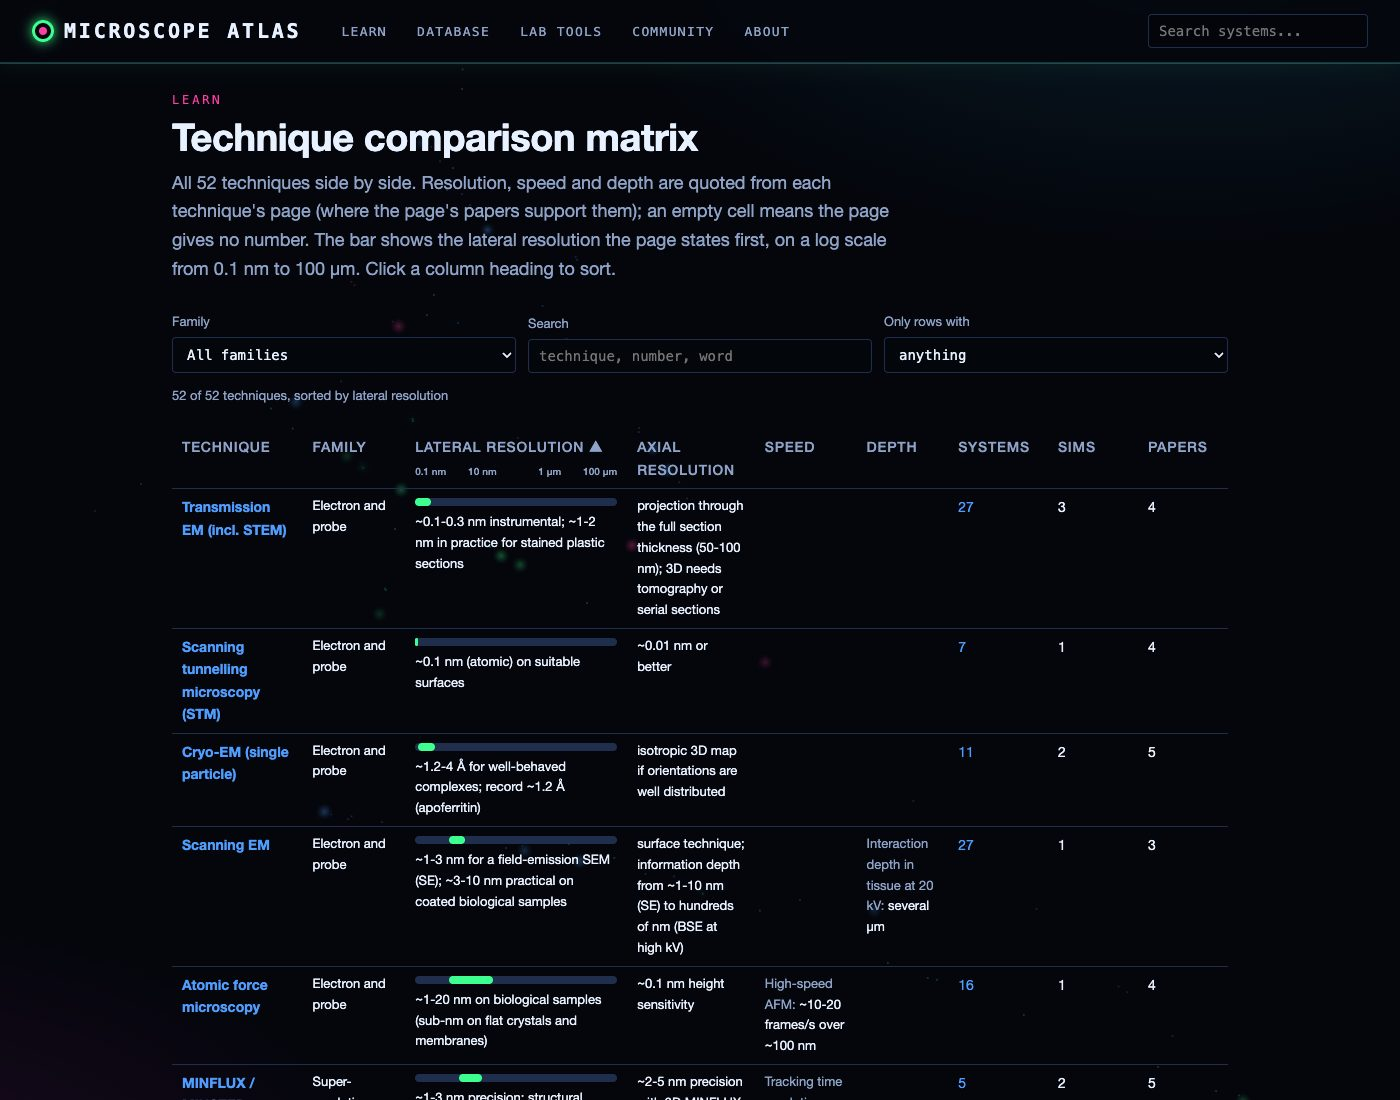
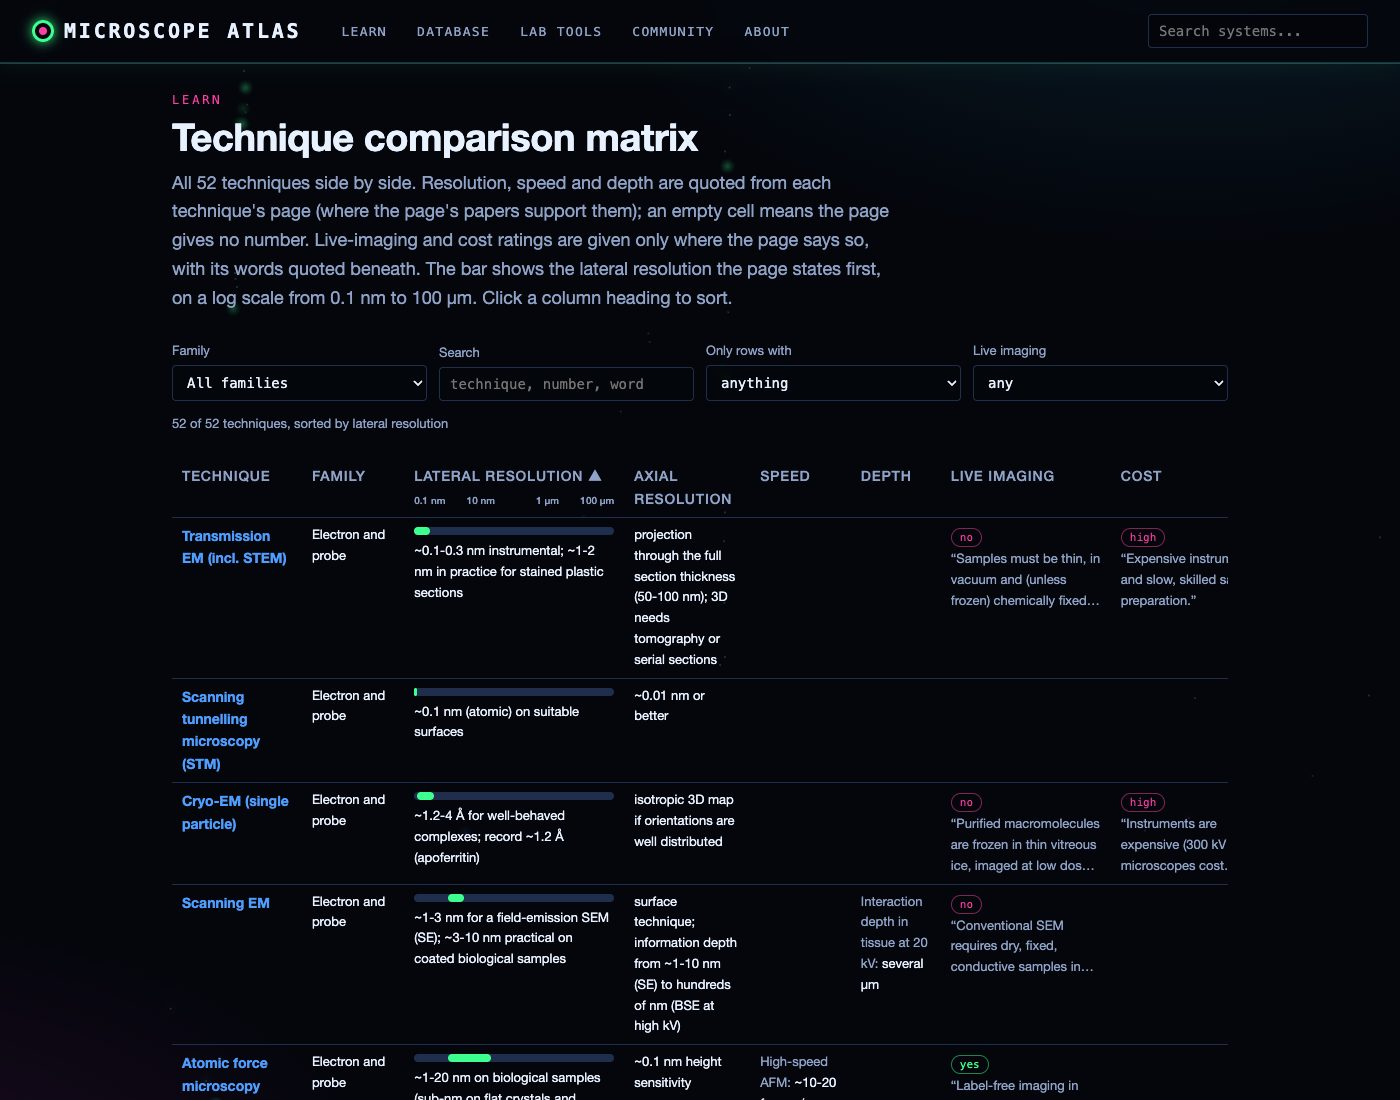
R8 complete: live-imaging and cost ratings in the technique matrix, each quoting the technique page it rests on

diff --git a/atlas/web/static/matrix.js b/atlas/web/static/matrix.js
@@ -1,8 +1,9 @@
 // Technique comparison matrix (#/matrix): every technique side by side, with resolution, speed and depth exactly as
 // its teaching page states them (GET /api/techniques/matrix), a log-scale bar of the first stated lateral
-// resolution, and database counts. Columns sort; rows filter by family and text.
+// resolution, live-cell and cost ratings each shown with the page statement they rest on, and database counts.
+// Columns sort; rows filter by family, text, live-cell rating and what the row states.
 import { route, api, app, esc, list } from './core.js';
-import { firstLength, lateralLength, logPos, fmtLength, byKey } from './matrix_calc.js';
+import { firstLength, lateralLength, logPos, fmtLength, byKey, LIVE_RANK, COST_RANK, rank } from './matrix_calc.js';
 
 const TICKS = [0.1, 10, 1e3, 1e5];
 const COLS = [
@@ -12,11 +13,15 @@ const COLS = [
   ['z', 'Axial resolution', r => r.zLen?.lo ?? null],
   ['speed', 'Speed', r => r.speed[0]?.value || null],
   ['depth', 'Depth', r => r.depthLen?.lo ?? null],
+  ['live', 'Live imaging', r => rank(LIVE_RANK, r.live)],
+  ['cost', 'Cost', r => rank(COST_RANK, r.cost)],
   ['systems', 'Systems', r => r.systems],
   ['sims', 'Sims', r => r.sims],
   ['papers', 'Papers', r => r.papers],
 ];
 
+const TAG = { yes: 'g', limited: 'y', no: 'r', low: 'g', 'adds cost': 'y', high: 'r' };
+const rated = (v, q) => v ? `<span class="tag ${TAG[v]}">${esc(v)}</span><div class="small mute mx-q" title="${esc(q)}">“${esc(q)}”</div>` : '';
 const kn = ks => list(ks, k => `<div><span class="mute">${esc(k.label)}:</span> ${esc(k.value)}</div>`);
 
 function bar(len) {
@@ -33,12 +38,14 @@ route('matrix', async (_a, query = {}) => {
   const fams = [...new Set(rows.map(r => r.family))];
   app().innerHTML = `<p class="kicker">Learn</p><h1>Technique comparison matrix</h1>
     <p class="lead">All ${rows.length} techniques side by side. Resolution, speed and depth are quoted from each technique's page
-    (where the page's papers support them); an empty cell means the page gives no number. The bar shows the lateral
+    (where the page's papers support them); an empty cell means the page gives no number. Live-imaging and cost ratings are given only where the page says so, with
+    its words quoted beneath. The bar shows the lateral
     resolution the page states first, on a log scale from 0.1 nm to 100 µm. Click a column heading to sort.</p>
     <div class="row"><div><label for="mx-f">Family</label><select id="mx-f"><option value="">All families</option>
       ${list(fams, f => `<option ${query.family === f ? 'selected' : ''}>${esc(f)}</option>`)}</select></div>
     <div><label for="mx-q">Search</label><input id="mx-q" type="search" placeholder="technique, number, word"></div>
-    <div><label for="mx-n">Only rows with</label><select id="mx-n"><option value="">anything</option><option value="speed">a speed</option><option value="depth">a depth</option></select></div></div>
+    <div><label for="mx-n">Only rows with</label><select id="mx-n"><option value="">anything</option><option value="speed">a speed</option><option value="depth">a depth</option><option value="cost">a cost rating</option></select></div>
+    <div><label for="mx-l">Live imaging</label><select id="mx-l"><option value="">any</option>${list(Object.keys(LIVE_RANK), v => `<option>${v}</option>`)}</select></div></div>
     <p id="mx-count" class="small mute" aria-live="polite"></p>
     <div class="scroll"><table class="mx" id="mx-t"></table></div>
     <p class="small mute">Speeds and depths are the page's own key numbers (frame, volume or scan rates; imaging or penetration depth).
@@ -46,8 +53,8 @@ route('matrix', async (_a, query = {}) => {
   let sortKey = 'xy', dir = 1;
   const $ = s => app().querySelector(s);
   const draw = () => {
-    const f = $('#mx-f').value, q = $('#mx-q').value.toLowerCase(), need = $('#mx-n').value;
-    const shown = rows.filter(r => (!f || r.family === f) && (!need || r[need].length) && (!q || JSON.stringify(r).toLowerCase().includes(q)));
+    const f = $('#mx-f').value, q = $('#mx-q').value.toLowerCase(), need = $('#mx-n').value, live = $('#mx-l').value;
+    const shown = rows.filter(r => (!f || r.family === f) && (!need || r[need].length) && (!live || r.live === live) && (!q || JSON.stringify(r).toLowerCase().includes(q)));
     const col = COLS.find(c => c[0] === sortKey);
     shown.sort(byKey(col[2], dir));
     $('#mx-count').textContent = `${shown.length} of ${rows.length} techniques, sorted by ${col[1].toLowerCase()}${dir < 0 ? ' (descending)' : ''}`;
@@ -61,6 +68,8 @@ route('matrix', async (_a, query = {}) => {
         <td class="small">${esc(r.z)}</td>
         <td class="small">${kn(r.speed)}</td>
         <td class="small">${kn(r.depth)}</td>
+        <td class="mx-rate">${rated(r.live, r.live_quote)}</td>
+        <td class="mx-rate">${rated(r.cost, r.cost_quote)}</td>
         <td>${r.systems ? `<a href="#/systems?technique=${esc(r.id)}">${r.systems}</a>` : '0'}</td>
         <td>${r.sims}</td><td>${r.papers}</td></tr>`) + '</tbody>';
   };
@@ -71,7 +80,7 @@ route('matrix', async (_a, query = {}) => {
     sortKey = k; draw();
     $(`.mx-sort[data-k="${k}"]`)?.focus();
   });
-  for (const id of ['#mx-f', '#mx-n']) $(id).onchange = draw;
+  for (const id of ['#mx-f', '#mx-n', '#mx-l']) $(id).onchange = draw;
   $('#mx-q').oninput = draw;
   draw();
 });

diff --git a/atlas/web/static/style_pages.css b/atlas/web/static/style_pages.css
@@ -108,7 +108,7 @@ details.fold { background:var(--panel); border:1px solid var(--line); border-rad
 .gallery video { width:100%; display:block; background:#000; } .gallery.compact video { height:180px; object-fit:cover; }
 
 /* technique comparison matrix */
-table.mx td { min-width:90px; } table.mx td.mx-xy { min-width:220px; }
+table.mx td { min-width:90px; } table.mx td.mx-xy { min-width:220px; } table.mx td.mx-rate { min-width:170px; }
 .mx-sort { background:none; border:0; color:inherit; font:inherit; cursor:pointer; padding:0; text-align:left; }
 .mx-sort:hover, .mx-sort:focus-visible { color:var(--ink); text-decoration:underline; }
 .mx-bar { position:relative; height:8px; background:var(--line); border-radius:4px; margin:2px 0 6px; }
@@ -116,3 +116,4 @@ table.mx td { min-width:90px; } table.mx td.mx-xy { min-width:220px; }
 .mx-scale { position:relative; height:14px; margin-top:4px; font-size:10px; color:var(--mute); }
 .mx-scale span { position:absolute; transform:translateX(-50%); white-space:nowrap; }
 .mx-scale span:first-child { transform:none; } .mx-scale span:last-child { transform:translateX(-100%); }
+.mx-q { display:-webkit-box; -webkit-line-clamp:3; -webkit-box-orient:vertical; overflow:hidden; }

diff --git a/atlas/web/static/matrix_calc.js b/atlas/web/static/matrix_calc.js
@@ -49,3 +49,8 @@ export function byKey(key, dir = 1) {
     return dir * (typeof x === 'number' ? x - y : String(x).localeCompare(String(y)));
   };
 }
+
+/** Sort ranks for the curated ratings (data/content/technique_matrix.json); unrated rows sort last via byKey. */
+export const LIVE_RANK = { yes: 0, limited: 1, no: 2 };
+export const COST_RANK = { low: 0, 'adds cost': 1, high: 2 };
+export const rank = (table, v) => (v in table ? table[v] : null);

diff --git a/atlas/content.py b/atlas/content.py
@@ -82,11 +82,24 @@ _SPEED_NOT = r"speed of sound|disk speed"
 _DEPTH = r"imaging depth|penetration|depth in|usable depth|useful imaging depth|interaction depth|resolution / depth"
 
 
+def page_statement(page: dict, ref: str) -> str:
+    """Text of a technique-page field by reference: 'tagline', '<list field>.<index>', optionally '@<n>' for the n-th
+    sentence of that text (e.g. 'sample_prep@2'). Raises if the reference does not resolve."""
+    import re
+    ref, _, sent = ref.partition("@")
+    field, _, i = ref.partition(".")
+    v = page[field]
+    v = v[int(i)] if i else v
+    return re.split(r"(?<=[.!?])\s+(?=[A-Z(])", v)[int(sent)] if sent else v
+
+
 def matrix() -> list[dict]:
     """One row per technique for the comparison matrix: resolution text and the speed and depth key numbers exactly as
-    the technique page states them (each page is sourced by its papers), plus database counts."""
+    the technique page states them (each page is sourced by its papers), database counts, and the live-cell and cost
+    ratings of data/content/technique_matrix.json, each shown with the page statement it rests on (quoted verbatim)."""
     import re
     pages, counts = technique_pages(), catalog.facets()["technique"]
+    ratings = {r["id"]: r for r in named("technique_matrix")}
     sims = simulations()
     rows = []
     for t in catalog.techniques():
@@ -99,4 +112,8 @@ def matrix() -> list[dict]:
                      "speed": pick(_SPEED, _SPEED_NOT), "depth": pick(_DEPTH),
                      "systems": counts.get(t["id"], 0), "papers": len(p.get("papers", [])),
                      "sims": sum(t["id"] in s.get("techniques", []) for s in sims)})
+        r = ratings.get(t["id"], {})
+        for k in ("live", "cost"):
+            rows[-1][k] = r.get(k, "")
+            rows[-1][k + "_quote"] = page_statement(p, r[k + "_ref"]) if k in r else ""
     return rows

diff --git a/INTERFACE.md b/INTERFACE.md
@@ -30,7 +30,7 @@ JSON by `static_api.js`; Python-only tools show a notice.
 | `techniques.js` | Technique index by family and the teaching page |
 | `lightpath.js`, `lightpath_kit.js`, `lightpath_defs.js`, `lightpath_defs2.js`, `lightpath_steps.js` | SVG light-path engine (`P` primitives, `lightPath`, `miniPath`, `hasDiagram`); shared layouts (`epi`, `transmitted`, `scanner`, `psfInset`, axis `X`/`Y`); per-technique diagrams (`DEFS`, `FAMILY_DEFAULT`; part 2 `DEFS2` merged in): one for each of the 52 techniques; step-through (`partsOf`, `matchSteps`, `stepper`) links `light_path` steps to highlighted parts |
 | `cells.js`, `cells_identify.js`, `cell_diagrams.js`, `cell_diagrams2.js` | Cells page (`#/cells/<tab>`): diagrams (`DIAGRAMS`, parts `data-s` = structure ids), structures, cell types, image database (Commons images with `cell_type`), identifier tab (`POST /api/cells/identify`) |
-| `matrix.js`, `matrix_calc.js` | Technique comparison matrix (`#/matrix`, `GET /api/techniques/matrix` = `content.matrix()`): sortable table of resolution, speed, depth (quoted from technique pages), counts; pure helpers `firstLength`, `lateralLength`, `logPos`, `fmtLength`, `byKey` |
+| `matrix.js`, `matrix_calc.js` | Technique comparison matrix (`#/matrix`, `GET /api/techniques/matrix` = `content.matrix()`): sortable table of resolution, speed, depth (quoted from technique pages), counts; pure helpers `firstLength`, `lateralLength`, `logPos`, `fmtLength`, `byKey`, `LIVE_RANK`/`COST_RANK`; live-imaging and cost ratings from `data/content/technique_matrix.json`, quoted from the page by `content.page_statement` |
 | `nobel.js` | Nobel Prizes and microscopy (`#/nobel`, Community): data/content/nobel.json |
 | `fluor.js` | Fluorophore table with Stokes plot; spectra viewer with lasers, bands and crosstalk tables |
 | `sims.js` | Simulation index and `#/sim/<id>` router; merges the sim modules below |
@@ -73,6 +73,7 @@ JSON by `static_api.js`; Python-only tools show a notice.
 - `content/videos.json`: from `scripts/content/videos_src.py` (YouTube tutorials checked via oEmbed).
 - `content/cells.json`: Cells page content (intro, structures, cell types, numbers; sourced per entry).
 - `content/portfolio.json` key `calcium` comes from `scripts/content/calcium_src.py` (sourced background + how the group's work fits).
+- `content/technique_matrix.json`: per technique, live-imaging and cost ratings with a reference to the technique-page statement each rests on (`field.index`, `@n` = sentence).
 - `content/nobel.json`: Nobel prizes linked to microscopy (official citation, relation, note, techniques, sources).
 - `content/community.json`: from `scripts/content/community_src.py` (links checked by `scripts/check_links.py`).
 - `images/`: freely licensed Wikimedia Commons images + manifest.json (author, licence, source) from `scripts/fetch_commons.py` and the curated list `scripts/content/images_src.py`.
@@ -82,6 +83,6 @@ JSON by `static_api.js`; Python-only tools show a notice.
 `validate_data.py` (schema check, used by tests) · `build_static.py` (static export) · `build_papers.py` · `check_links.py [--systems]` (reports in docs/) · `fetch_commons.py` (images) · `fetch_fpbase.py` (fluorophores and spectra) · `content/build_content.py` (fundamentals, glossary, portfolio) · `content/cell_images_src.py`, `cell_images_src2.py` (Commons cell micrographs; batch 2 stored smaller), `content/calcium_images_src.py` (calcium movies, topic "calcium": Commons files, and CC BY open-access paper files given by `file_url` + licence + DOI; videos converted by `commons_video.py` to MP4 + poster), merged into the fetch by `fetch_commons.py`) · `eval_cell_id.py` (identifier leave-one-out accuracy → docs/cell_id_eval.md) · `backup_to_drive.sh <dest>` (project incl. git-ignored local data, git bundle, user cache → external drive) · `screenshots.py` (Playwright + Chrome: README figures in `docs/img` and a smoke test of every route; needs the server running).
 
 ## tests/
-`test_data.py` (validator, counts, every sim id has code) · `test_api.py` (routes) · `test_lab_files.py` (inspector endpoint) · `test_images.py` (licences, credits, ids, size) · `test_methods_videos.py` (methods coverage, video rows) · `table_engine.test.mjs` (ray-tracer physics and every preset) · `table_imaging.test.mjs` (PSF width, photon conservation, noise statistics, TIRF weighting, binning, modes per preset) · `cells.test.mjs` (diagrams render, part ids, sourced content) · `test_cells.py` (content API, identifier end to end when ML is installed) · `test_imagelab.py` (TIFF reader, image ops and spot fits vs tifffile/numpy/scipy, via `imagelab_check.mjs`) · `sim_engine_photon.test.mjs` (cross-section, flux, saturation, collection, band fraction) · `builder.test.mjs` (spec parsing on the real database, report vs hand calculation) · `sim_engine_loc.test.mjs` (exact noise-free fits, precision vs Thompson, matching) · `sim_engine_image.test.mjs` (PSF σ, binning, Poisson and read noise, spectra, PackBits) · `matrix.test.mjs` (length parsing on every technique page, log axis, sorting) · `lightpath.test.mjs` (every technique has a diagram that renders; step matching and coverage) · `test_js.py` runs every `tests/*.test.mjs` with node (sim engine incl. `sim_engine2/3.test.mjs` for Simulations II, lab setup, labelling, bench).
+`test_data.py` (validator, counts, every sim id has code) · `test_api.py` (routes) · `test_lab_files.py` (inspector endpoint) · `test_images.py` (licences, credits, ids, size) · `test_methods_videos.py` (methods coverage, video rows) · `table_engine.test.mjs` (ray-tracer physics and every preset) · `table_imaging.test.mjs` (PSF width, photon conservation, noise statistics, TIRF weighting, binning, modes per preset) · `cells.test.mjs` (diagrams render, part ids, sourced content) · `test_cells.py` (content API, identifier end to end when ML is installed) · `test_imagelab.py` (TIFF reader, image ops and spot fits vs tifffile/numpy/scipy, via `imagelab_check.mjs`) · `sim_engine_photon.test.mjs` (cross-section, flux, saturation, collection, band fraction) · `builder.test.mjs` (spec parsing on the real database, report vs hand calculation) · `sim_engine_loc.test.mjs` (exact noise-free fits, precision vs Thompson, matching) · `sim_engine_image.test.mjs` (PSF σ, binning, Poisson and read noise, spectra, PackBits) · `matrix.test.mjs` (length parsing on every technique page, log axis, sorting, rating references resolve and support the rating) · `lightpath.test.mjs` (every technique has a diagram that renders; step matching and coverage) · `test_js.py` runs every `tests/*.test.mjs` with node (sim engine incl. `sim_engine2/3.test.mjs` for Simulations II, lab setup, labelling, bench).
 
 Flow: `web/app.py` → `catalog` / `content` / `fluorophores` → `jsonio` → `data/`. Front end: `main.js` → page modules → `core.api` → `/api/...`.

diff --git a/ROADMAP.md b/ROADMAP.md
@@ -17,7 +17,7 @@ Rules: sourced data only (see CLAUDE.md); new physics goes in `sim_engine.js` wi
 | R5 | Microscope builder: pick objective, camera, lasers and filters from the database; compute resolution, sampling, field of view, expected photons and SNR | Configurator page with tests of the calculations | completed | 2026-11-10 round 13: `#/builder` (`builder.js`, `builder_calc.js`): objective and camera from the database (specs parsed from their text: 23 objectives, 18 cameras usable; missing QE/read noise asked from the user), fluorophore with FPbase spectrum and ε/QY/τ, laser line, filter band. Reports resolution, Nyquist sampling, field of view, frame rate, photon budget (power density → σε at the line → saturation → QY → collection cone → band fraction → transmission → QE), peak SNR and localization precision. Physics in `sim_engine_photon.js` (re-exported, node-tested against hand values). Lasers and filter sets become database picks when R6 adds them |
 | R6 | Database growth: lasers and light sources, filter sets, more systems (target 450+), licensed instrument photos (Wikimedia Commons, with credits) | Validator passes; licence recorded per image | completed 2026-11-10 | 2026-11-10 round 14: new component kinds `light_sources` (28: lasers, laser engines, fs lasers, STED laser, LED engines, lamps) and `filters` (16 Chroma/Semrock sets), every spec from a fetched manufacturer page or datasheet (some hosted by distributors or universities, noted); availability caveats in summaries; validator, API, static export and a four-tab components page. Round 15: the builder picks the light source (its stated lines; common lines inside a stated range) and the filter set (emission band nearest the dye above the line; exciter check) from the database; parsers tested on the real entries (16 sources, 15 sets usable). Round 18: 60 more systems (358), from two research agents: 31 light-microscopy models (confocal, spinning disk, lattice SIM, light sheet, multiphoton, QPI, high-content, slide scanners, stereo, research stands) and 29 electron/probe/X-ray/CLEM/open-source/historical instruments; duplicates of existing models avoided; weakly sourced or availability-unconfirmed entries noted. Round 19: filter sets 16 → 33 (current Semrock/IDEX BrightLine 2.0 and LED sets, Chroma 49004 Cy3/TRITC and 49007 Cy7, three Edmund sets). The eight Semrock sets earlier marked obsolete are orderable: the first agent had read a hidden 'obsolete' block present on every IDEX page; checked in a browser on all eight and reverted to current. Round 20: 48 more systems (406): 22 commercial and research label-free/spectroscopic/FLIM/TIRF/AO/light-field instruments, 13 more landmark research set-ups from papers (DOIs checked), 13 historical microscopes from museum records; three cross-batch duplicates merged. Round 21: 46 more systems (452, target 450 reached): 24 benchtop, live-cell and routine/teaching microscopes (EVOS, Lionheart, Celena, Revolve, Etaluma, Nikon Ei/Si/Ci/Ts2, ZEISS Axioscope 5/Axiolab 5/Primostar 3/Primovert, Evident BX53/CX/CKX, Leica DM series) and 22 mid-range SEM/TEM/AFM instruments and open-source builds (OpenFlexure Delta Stage, Incubot, LEGO microscope, smfBox, openSPIN, OpenSIM, UC2, Matchboxscope) |
 | R7 | Quiz: flashcards with spaced repetition and generated multiple choice | Page works offline; progress persists | completed 2026-11-09 | Six question generators plus 208 flashcards |
-| R8 | Technique comparison matrix (all techniques vs resolution, depth, speed, live-cell, cost) with sortable view | Matrix page | in_progress | 2026-11-10 round 22: `#/matrix` page with all 52 techniques. Lateral and axial resolution, speed and depth are quoted from each technique page's own `resolution` and `key_numbers` (18 pages state a speed, 9 a depth). There is a log-scale lateral-resolution bar (parsed by `matrix_calc.js`, node-tested on every page; FRAP and CLEM get no bar because their first number is not a resolution). Columns sort; rows filter by family, text, and has speed/depth. Counts of systems, sims and papers. Still to do: live-cell suitability and relative cost need a sourced field per technique (a statement from the page's papers or a vendor/core-facility source), not inferred |
+| R8 | Technique comparison matrix (all techniques vs resolution, depth, speed, live-cell, cost) with sortable view | Matrix page | completed 2026-11-10 | 2026-11-10 round 22: `#/matrix` page with all 52 techniques. Lateral and axial resolution, speed and depth are quoted from each technique page's own `resolution` and `key_numbers` (18 pages state a speed, 9 a depth). There is a log-scale lateral-resolution bar (parsed by `matrix_calc.js`, node-tested on every page; FRAP and CLEM get no bar because their first number is not a resolution). Columns sort; rows filter by family, text, and has speed/depth. Counts of systems, sims and papers. Round 23: live-imaging (yes/limited/no, 46 techniques) and cost (low/adds cost/high, 15) ratings in `data/content/technique_matrix.json`; each names the page statement it rests on (`strengths.0`, `sample_prep@1`, ...) and the API quotes it verbatim, so no rating is given where the page is silent (e.g. HILO, STM, MINFLUX live; most costs). Node test checks every reference resolves and its words speak to the rating; live-imaging filter |
 | R9 | Portfolio polish: links to George's public tools (FLIKA plugins etc.), case studies of his imaging work, only with his approval | George has reviewed the page | pending (needs George) | |
 | R10 | Static export (e.g. GitHub Pages) so the atlas can be shown without running Python | Decision from George on making it public | pending (needs George) | |
 | R11 | Accessibility, phone layout and performance pass | Lighthouse-style checks; keyboard navigation of sims | pending | |

diff --git a/SESSION_LOG.md b/SESSION_LOG.md
@@ -441,3 +441,13 @@ description (correct for IC295) plus a note that IC293 is endothelial.
 - Tests: `tests/matrix.test.mjs` (parsing on all 52 pages: 51 parse, spectral has no number), API test. pytest
   54 passed, 1 skipped; smoke test 45 routes ok; README figure `docs/img/matrix.jpg`.
 - R8 stays in_progress: live-cell suitability and cost need a sourced field per technique, not inferred.
+
+## 2026-11-10: round 23, R8 completed (live imaging and cost in the matrix)
+- `data/content/technique_matrix.json`: live-imaging rating (yes / limited / no) for 46 techniques and cost (low /
+  adds cost / high) for 15, each with a reference to the technique-page statement it rests on (`limitations.0`,
+  `tagline`, `sample_prep@1` = second sentence). `content.page_statement` resolves it and the matrix API returns the
+  statement verbatim, shown beneath the rating. Techniques whose page says nothing get no rating (HILO was dropped: its
+  page implies but does not state live use; STM, stereo, iSCAT, MINFLUX unrated for live; most costs unrated).
+- Matrix page: two new sortable columns, quotes clamped to three lines (full text on hover), live-imaging filter,
+  "a cost rating" row filter. Node test: every reference resolves and its words speak to the rating.
+- pytest 54 passed, 1 skipped; smoke test 45 routes ok; docs/img/matrix.jpg refreshed. R8 completed; next R11.

diff --git a/README.md b/README.md
@@ -61,8 +61,9 @@ Technique names, glossary terms and software mentioned in the text link to their
 
 **Technique comparison matrix** (`#/matrix`): all 52 techniques in one sortable table. It shows lateral and axial
 resolution, speed and depth exactly as each technique page states them, so a cell is empty where the page gives no
-number. A log-scale bar from 0.1 nm to 100 µm marks each technique's lateral resolution. The table also counts the
-systems, simulations and papers for each technique, and filters by family.
+number. A log-scale bar from 0.1 nm to 100 µm marks each technique's lateral resolution. Live-imaging (46
+techniques) and cost (15) ratings appear only where the page makes such a statement, with its words quoted beneath. The
+table also counts the systems, simulations and papers for each technique, and filters by family and live-imaging rating.
 
 ![Technique comparison matrix](docs/img/matrix.jpg)
 
